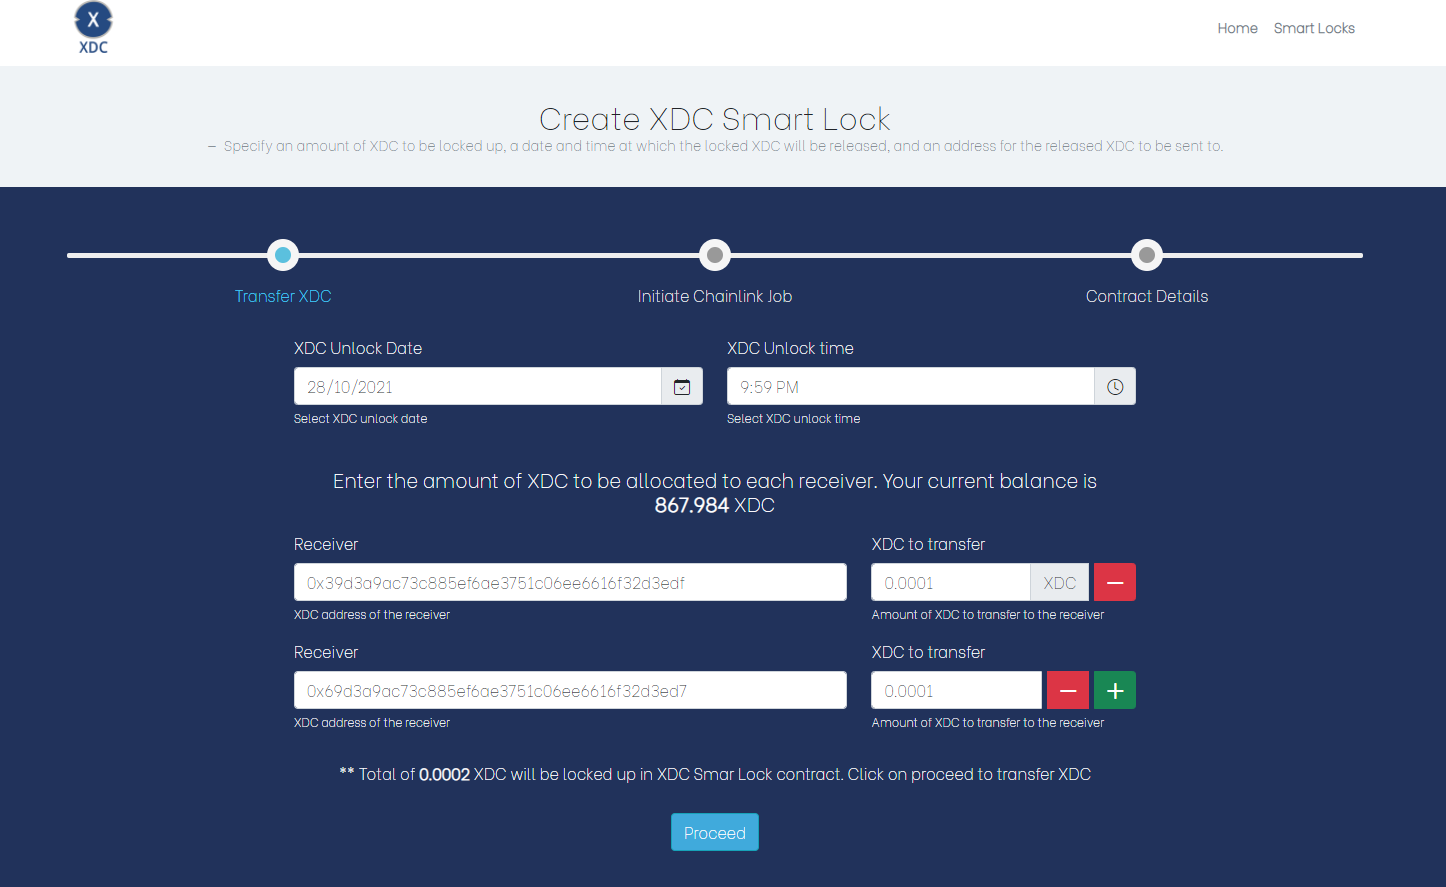
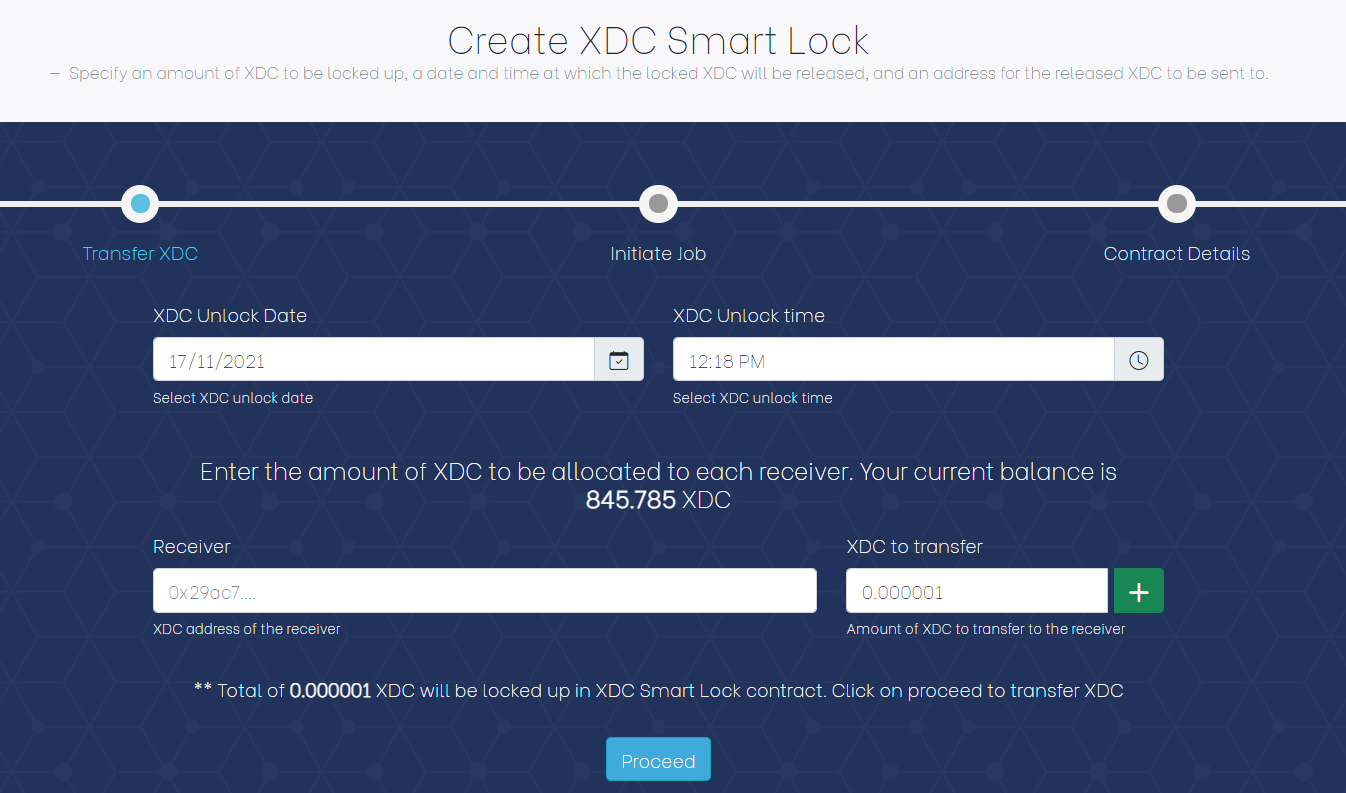
Updated README.md

diff --git a/README.md b/README.md
@@ -2,7 +2,7 @@
 
 # XDC Smart Lock
 ---
-Create XDC Smart Lock where the time is sourced from a Chainlink oracle.  A funder would specify an amount of XDC to be locked up, a date and time at which the locked XDC will be released, and an address for the released XDC to be sent to.
+Create XDC Smart Lock where the time can be sourced from multiple oracle nodes. A funder would specify an amount of XDC to be locked up, a date and time at which the locked XDC will be released, and an address for the released XDC to be sent to. 
 
 # Table of contents
 ---
@@ -10,7 +10,9 @@ Create XDC Smart Lock where the time is sourced from a Chainlink oracle.  A fund
    * [Prerequisite](#prerequisite)
    * [Tools & Technologies](#tools--technologies)
    * [Configuring Chainlink Job](#configuring-chainlink-job)
-   * [Deploying XDC Smart Lock](#deploying-time-locked-contracts)
+   * [Configuring Plugin Job](#configuring-plugin-job)
+   * [Contract & Designs](#contracts--designs)
+   * [Deploying Contracts](#deploying-contracts)
    * [Configuring the Application](#configuring-the-application)
    * [Building the Application](#building-the-application)
       * [Using npm](#using-npm)
@@ -32,26 +34,37 @@ After the expiration time, only the intended receivers can get the locked up XDC
 
 ## Prerequisite
 ---
-This application requires integration of [XinFin](https://xinfin.org/) Network with [Chainlink](https://chain.link/). 
-It is recommended to follow [XinFin-Chainlink](https://github.com/XinFinOrg/XinFin-ChainLink) guide and setup all the required applications which includes -   
+This application requires integration of [XinFin](https://xinfin.org/) Network with [Chainlink](https://chain.link/) and [Go Plugin](https://goplugin.co/). 
+
+It is recommended to follow 
+
+1. [XinFin-Chainlink](https://github.com/XinFinOrg/XinFin-ChainLink) guide and setup all the required applications which includes -   
 
 - Chainlink node
 - Chainlink - External Initiator
 - Deploying LINK token contract 
-- Deploying Oracle contract 
+- Deploying Chainlink Oracle contract
+
+2. [XinFin-Plugin](https://github.com/GoPlugin/Xinfin-Plugin) guide and setup all the required applications which includes -   
+
+- Plugin node
+- Plugin - External Initiator
+- Deploying PLI token contract 
+- Deploying PLI Oracle contract
 
 ## Tools & Technologies
 ---
 
 Following tools and technologies have been usse to develop XDC Smart Lock application -
 
-- Node.js 12.8 - https://nodejs.org/en/
-- Vue.js 4.x - https://v3.vuejs.org/
-- Bootstrap 5.x - https://getbootstrap.com/
-- web3 / xdc3 1.3.x - https://web3js.readthedocs.io/en/v1.5.2/
-- XDCPay 6.0.0 - 6.0.0 - https://chrome.google.com/webstore/detail/XDCPay/bocpokimicclpaiekenaeelehdjllofo?hl=en
-- Chainlink 0.10.x - https://chain.link/
-- Solidity 0.4.24 - https://docs.soliditylang.org/en/v0.8.7/
+- Node.js v12.8 - https://nodejs.org/en/
+- Vue.js v4.x - https://v3.vuejs.org/
+- Bootstrap v5.x - https://getbootstrap.com/
+- web3 / xdc3 v1.3.x - https://web3js.readthedocs.io/en/v1.5.2/
+- XDCPay v6.2.4 - https://chrome.google.com/webstore/detail/xdcpay/bocpokimicclpaiekenaeelehdjllofo?hl=en
+- Chainlink v0.10.x - https://chain.link/
+- Go Plugin v0.0.3 - https://goplugin.co/
+- Solidity v0.4.24 - https://docs.soliditylang.org/en/v0.8.7/
 
 ![Design](ui/public/design.png)
 
@@ -62,43 +75,108 @@ Create an [Alarm Job](https://docs.chain.link/docs/chainlink-alarm-clock/) in Ch
 
 - Login to Chainlink node
 - Navgate to **Jobs** and click on **New Job**
-- Copy the job specification form **chainlink/alarm-job.json** file
+- Copy the job specification form **jobs/chainlink/alarm-job.json** file
 - Paste the contents into the **Json Spec** field and create the job 
 - Copy the newly created job id which we will be using later
 
-## Deploying XDC Smart Lock
+## Configuring Plugin Job
 ---
+
+Create an [Alarm Job] in Plugin node. Steps to create Alarm Job -
+
+- Login to Plugin node
+- Navgate to **Jobs** and click on **New Job**
+- Copy the job specification form **jobs/goplugin/alarm-job.json** file
+- Paste the contents into the **Json Spec** field and create the job 
+- Copy the newly created job id which we will be using later
+
+## Contracts & Designs
+---
+
+![Contract Design](ui/public/contract_design.png)
+
+Details of various contracts created for XDC SmartLock application - 
+
+- **XDCSmartLockConfig**
+  - Stores configurations related to different node types i.e. for **Chainlink** and **Plugin**
+  - Following information is stored for each node type
+    - Token address
+    - Oracle address
+    - Job Id
+    - Fatory contract address
+- **XDCSmartLockStore**
+  - Store contract is use to store the SmartLock contract addresses againt the funder/user.
+  - Store the **XDCSmartLockConfig** address
+- **XDCSmartLockFactory**
+  - Contract responsible for creating new instances of XDCSmartLock 
+  - Stores the contract details in XDCSmartLock Store which includes
+    - Address of the new smartlock against the funder
+    - Contract Summart i.e. contract status, created date, unlock date 
+- **XDCSmartLock**
+  - Base / Abstract contract to handle all the XDCSmartLock core logic. 
+  - Create XDC Smart Lock where the time is sourced from a either a Chainlink or Go Plugin oracle. 
+  - Funder would specify an amount of XDC to be locked up, a date and time at which the locked XDC will be released and an address for the released XDC to be sent to
+- **ChanlinkSmartLockClient**
+  - Responsible for creation of Alarm Job in Chainlink node
+- **PluginSmartLockClient**
+  - Responsible for creation of Alarm Job in Plugin node
+
+
+## Deploying Contracts
+---
+
 Compile and deploy the contracts required for XDC Smart Lock creation using [remix](https://remix.xinfin.network/) editor.
 
-- **contracts/XDCSmartLockFactory.sol** - Factory contract used to create XDC Smart Lock and tracks all the contracts created by users. 
-- **contracts/XDCSmartLock.sol** - Contract implementing ChainlinkClient which is responsible for initiating Alarm Job in Chainlink and implements the callback function which will be invoked on time expiry. Stores all the information related to the contract which includes - 
-  - Receivers and corresponding XDC to be locked up
-  - Unlock date
+- **Deploying XDCSmartLockFactory**
+  - Compile & Deploy **contracts/smartlock/XDCSmartLockFactory.sol** 
+  - Copy the XDCSmartLockFactory address which will be used later in XDCSmartLockConfig
 
-Deploy the **XDCSmartLockFactory** using [remix](https://remix.xinfin.network/) editor and take a note of the deployed contract address which we will be using later. 
+- **Deploying ChainlinkSmartLockFactory**
+  - Compile & Deploy **contracts/chainlink/ChainlinkSmartLockFactory.sol** 
+  - Copy the ChainlinkSmartLockFactory address which will be used later in XDCSmartLockConfig
 
-By the end of this step we should have following addresses - 
+- **Deploying PluginSmartLockFactory**
+  - Compile & Deploy **contracts/chainlink/PluginSmartLockFactory.sol** 
+  - Copy the PluginSmartLockFactory address which will be used later in XDCSmartLockConfig
+
+- **Deploying XDCSmartLockConfig**
+  - Compile and deploy **contracts/store/XDCSmartLockConfig.sol** 
+  - Compile **contracts/store/XDCSmartLockConfigProxy.sol** 
+    - This contract inherits the OpenZeppelin Proxy to maintain the contract state in event of upgrades
+    - Deploy the contract using the **XDCSmartLockConfig** address as a constructor parameter
+  - Set the appropriate configuration settings for Chainlink and Plugin nodes-
+    - Invoke **setConfig** method with appropriate configuration parameters, Syntax <NodeType, Token Addres, Oracle Contract Addr, Job Id, Plugin or Chainlink Factory Contract Address, Fee>
+    - Invoke **setConfig** method with Chainlink configurations Eg: 
+    "Chainlink",0x499F9320079C3a5Dd30AF691ea1a88e8c75FDA17,0x84F64C5AC6eBB7B2caaAA479050139650b922453,"b166b3027fd742e6be9fe203fb58f571",0xDEa3eCcfCB746A1a3EBa63865ad27872A2a5EE4a,100000000000000000
+    - Invoke **setConfig** method with Plugin configurations Eg: 
+    "Plugin",0x4068b305f897CFb06baEF17673af8f04D008EF12,0xb9e8572e251083f5D94B5366C37F81A6Ca462F6A,"333e1505897841ddbc0ad3100ff83901",0xd3d22e9dA8ED7398631446e5Ae87D6B286Fa374f,100000000000000000
+  - Set XDCSmartLockFactory contract address by calling **setSmartLockFactoryAddress** method  
+  - Copy the XDCSmartLockConfigProxy address which will be used later in XDCSmartLockStore
+
+- **Deploying XDCSmartLockStore**
+  - Compile and deploy **contracts/store/XDCSmartLockStore.sol** 
+  - Compile **contracts/store/XDCSmartLockStoreProxy.sol** 
+    - This contract inherits the OpenZeppelin Proxy to maintain the contract state in event of upgrades
+    - Deploy the contract using the **XDCSmartLockStore** address as a constructor parameter
+  - Set XDCSmartLockConfigProxy contract address by calling **setSmartLockConfigAddr** method 
+  - Copy the XDCSmartLockStoreProxy address which will be used later in the UI   
+
+
+After deploying all the contracts we finally should have the address of **XDCSmartLockStoreProxy** contract which will be used in the UI. 
 
 | Keyword | Description |
 | ------ | ------ |
-| **TLW_FACTORY_CONTRACT_ADDR** | Address of the deployed XDC Smart Lock Factory |
-| **LINK_TOKEN_CONTRACT_ADDR** | Address of the deployed LINK token contract |
-| **ORACLE_CONTRACT_ADDR** | Address of the deployed Oracle contract |
-| **CHAIN_LINK_JOB_ID** | Address of the alarm job created in Chainlink node |
+| **SMARTLOCK_STORE_ADDR** | Address of the deployed XDCSmartLockStoreProxy contract |
 
 
 ## Configuring the Application
---
+---
 
 Before building or running the application following fields values should be replaced in **ui/src/assets/js/config.js**.
 
 **NOTE**: Network id **51** refers to XinFin Apothem network and **50** refers to XinFin Main network
 
-- TLW_FACTORY_CONTRACT_ADDR
-- LINK_TOKEN_CONTRACT_ADDR
-- ORACLE_CONTRACT_ADDR
-- CHAIN_LINK_JOB_ID
-
+- SMARTLOCK_STORE_ADDR
 
 ## Building The Application
 ---
@@ -119,8 +197,8 @@ Before building or running the application following fields values should be rep
 ### Using Docker
 
 ```sh
-docker build -t tlc .
-docker run -p 8080:8080 tlc
+docker build -t xdc-smartlock .
+docker run -p 8080:8080 xdc-smartlock
 ```
 
 ## Accessing the Application
@@ -134,9 +212,9 @@ docker run -p 8080:8080 tlc
 
 ![Login](ui/public/login.png)
 
-### Contracts
+### Smart Locks
 ---
-Displays the list of contracts created by the user with following information -
+Displays the list of Smart Lock contracts created by the user with following information -
 
 | Field | Description |
 | ------ | ------ |
@@ -144,26 +222,46 @@ Displays the list of contracts created by the user with following information -
 | XDC | Total amount of XDC locked up |
 | Created Date | Contract creation date |
 | Unlock Date | XDC release date |
+| Node | Node type either Chainlink or Plugin |
 | Receivers | Total number of receivers and corresponding XDC locked up |
 | Status | Status of the transaction |
 
-User will be provided with following actions based on the contract status -  
-
-| Action | Description |
-| ------ | ------ |
-| Transfer Link Token | This option will be available only if LINK token is not transferred to the contract. Using this option LINK token can be transferred to the contract to initiate the Chainlink job  |
-| Withdraw Contract | This option will be available only if LINK token is not transferred and when contract is not initiated. Using this option user can withdraw the total allocated XDC back to wallet|
 
 ![Contracts](ui/public/contracts.png)
 
-### New Contract
+
+### Smart Lock Details
+---
+
+Displays the XDC Smart Lock details which includes -
+
+- Contract Address
+- Total XDC locked up
+- Status of the contract
+- Current balance of the contract
+- Receivers and corresponding funds allocated
+- Created Date
+- Unlock Date
+- Oracle node selected to initiate the Alarm job i.e. either **Chainlink** or **Plugin**
+
+![Contracts](ui/public/contract_details.png)
+
+Based on the status of the contract, following actions will be provided -
+
+| Action | Description |
+| ------ | ------ |
+| **Transfer Token** | This option will be available only if LINK token is not transferred to the contract. Using this option LINK token can be transferred to the contract to initiate the Chainlink job  |
+| **Withdraw Contract** | This option will be available only if LINK token is not transferred and when contract is not initiated. Using this option user can withdraw the total allocated XDC back to wallet|
+
+
+![Contracts](ui/public/contract_actions.png)
+
+### New Smart Lock
 ---
 Creating XDC Smart Lock is a 2 step process, which includes - 
 
 - Creating a new Contract 
-- Transferring the LINK token and initiating Alarm Job in Chainlink
-
-![New Contract](ui/public/new_contract.png)
+- Choosing the appropriate oracle node and transfer the tokens required to initiate the Alarm Job
 
 ##### Creating a new Contract 
 
@@ -172,7 +270,13 @@ Creating XDC Smart Lock is a 2 step process, which includes -
 
 On contract creation, XDC will be transferred from user's wallet to the new contract.
 
-##### Transferring the LINK token and initiating Alarm Job in Chainlink
+![New Contract](ui/public/new_contract.png)
 
-In this step, LINK token (Link fee) will be transferred to the created contract. Link fee is required to initiate the job  Chainlink job.
+##### Choosing the appropriate oracle node to initiate Alarm Job 
 
+In this step, either **Chainlink** or **Plugin** nodes can be selected to initiate the Alarm job.
+
+- Chainlink: LINK token will be transferred to the created contract. Link fee is required to initiate the job in Chainlink node.
+- Plugin: PLI token will be transferred to the created contract. PLI fee is required to initiate the job in Plugin node.
+
+![New Contract](ui/public/node_selection.png)
